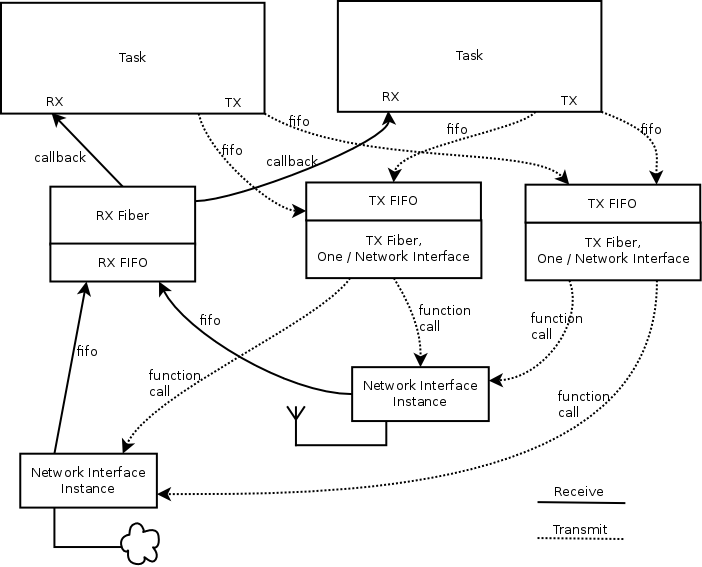
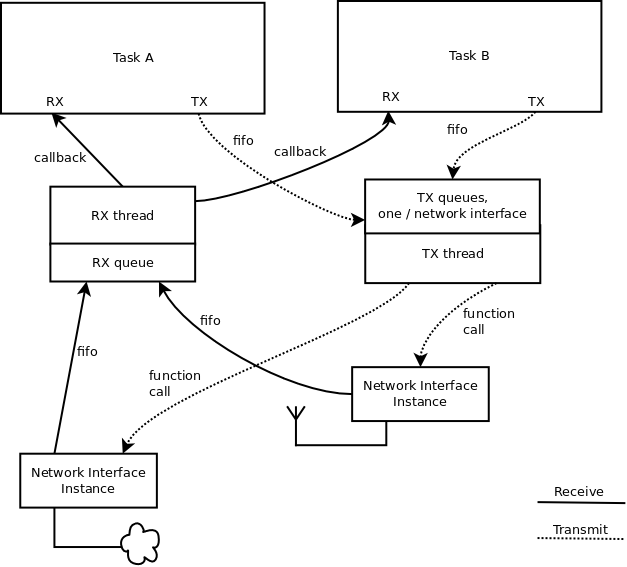
doc: net: Fix IP stack architecture data flow pictures
The TX side of network data flow was changed so update the
network architecture documentation.

Former-commit-id: f65c06eea57bd42b5df91a5f7eb2005e7b6d04c6

diff --git a/doc/subsystems/networking/ip-stack-architecture.rst b/doc/subsystems/networking/ip-stack-architecture.rst
@@ -96,8 +96,9 @@ connectivity APIs, following things will happen.
    to the application, that means the packet was not sent correctly and the
    application needs to free the packet.
 
-2) Each network interface has a TX thread associated with it and the TX thread
-   will send the packet to the correct device driver.
+2) Each network interface has a dedicated TX queue used to send data to that
+   interface. A TX thread in the system reads all the TX queues and passes
+   that data to the correct L2 driver, for sending via the device driver.
 
 3) If the device driver is able to inject the network packet into the
    network, then it will release the packet. Typically there are no
